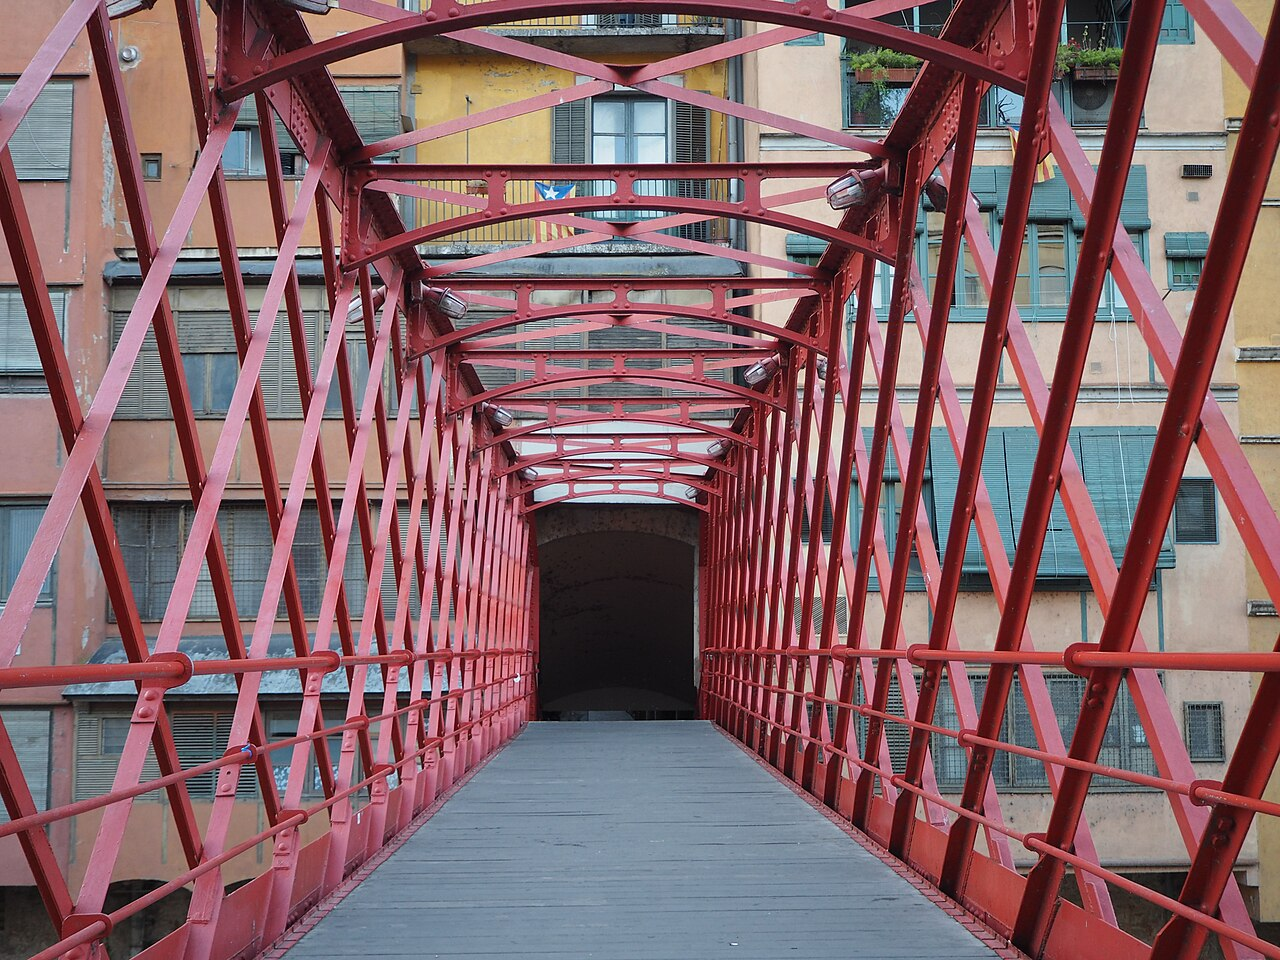
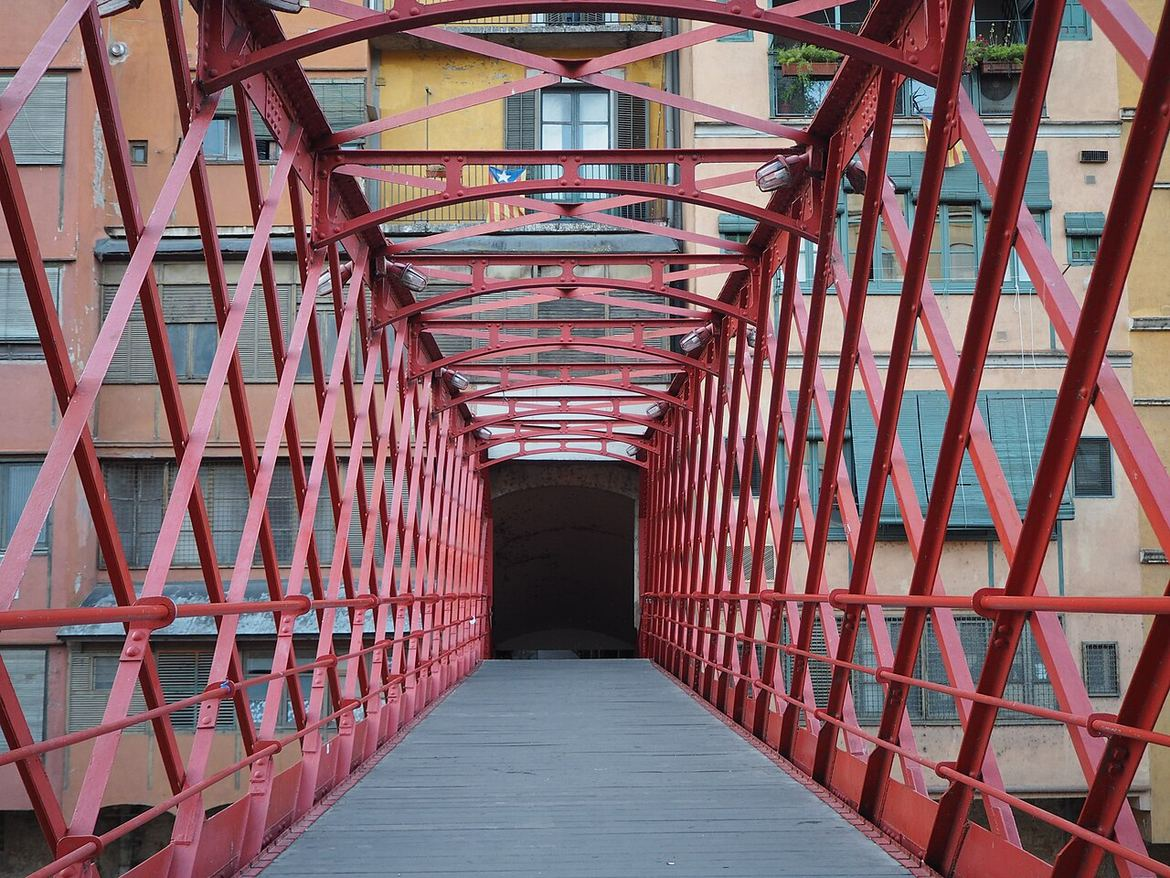
Shrink photos (8.9 MB to 5.2 MB), piscina PNG to JPG

Changed region(s): [[0.4, 0.1845, 0.4615, 0.2153]]

diff --git a/index.html b/index.html
@@ -355,7 +355,7 @@
         <h3><span class="ico">🏨</span>Parador de Aiguablava</h3>
         <p>Llegamos con la última luz del día. El Parador se asoma a la cala de Aiguablava, rodeada de pinos y aguas verdes. Primero la habitación, luego la terraza, abrazados mientras cae el sol.</p>
         <figure>
-          <div class="frame"><img src="images/parador-piscina.png" alt="La piscina del Parador de Aiguablava al atardecer, con los pinos reflejados en el agua y el mar al fondo" loading="lazy"></div>
+          <div class="frame"><img src="images/parador-piscina.jpg" alt="La piscina del Parador de Aiguablava al atardecer, con los pinos reflejados en el agua y el mar al fondo" loading="lazy"></div>
         </figure>
         <div class="sun">
           <svg viewBox="0 0 24 24" aria-hidden="true"><path d="M6 17a6 6 0 0 1 12 0M12 4v3M4.5 9.5l2 2M19.5 9.5l-2 2M2 17h20M6 21h12"/></svg>

diff --git a/sw.js b/sw.js
@@ -1,5 +1,5 @@
 // Costa Brava offline cache. The version changes whenever a file changes.
-const CACHE = 'costa-brava-a7cd471f8a';
+const CACHE = 'costa-brava-e4de58e1b0';
 const FILES = [
  "./",
  "besalu.html",
@@ -42,7 +42,7 @@ const FILES = [
  "images/girona-onyar.jpg",
  "images/girona-peixateries.jpg",
  "images/girona-sant-feliu.jpg",
- "images/parador-piscina.png",
+ "images/parador-piscina.jpg",
  "images/parador.jpg",
  "images/rodes-campanario.jpg",
  "images/rodes-claustro-inferior.jpg",
